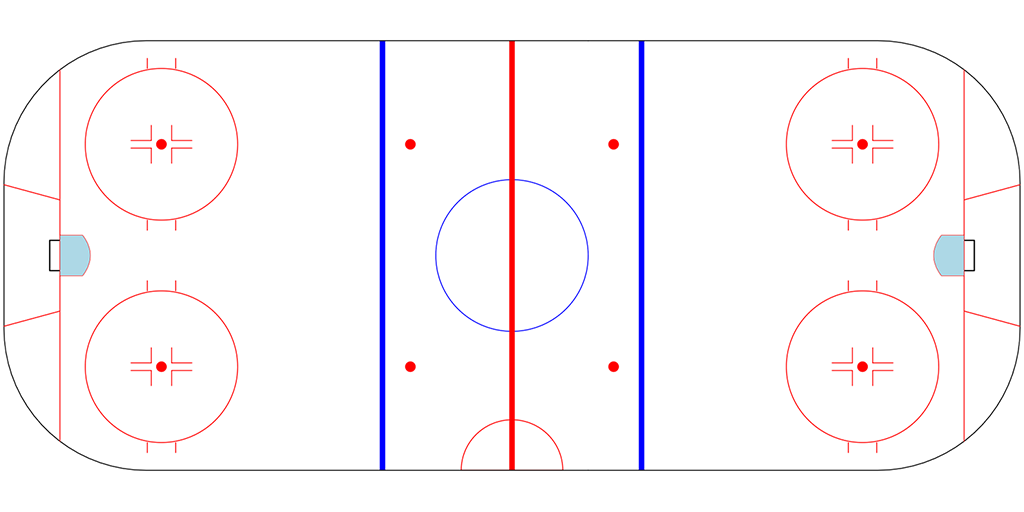
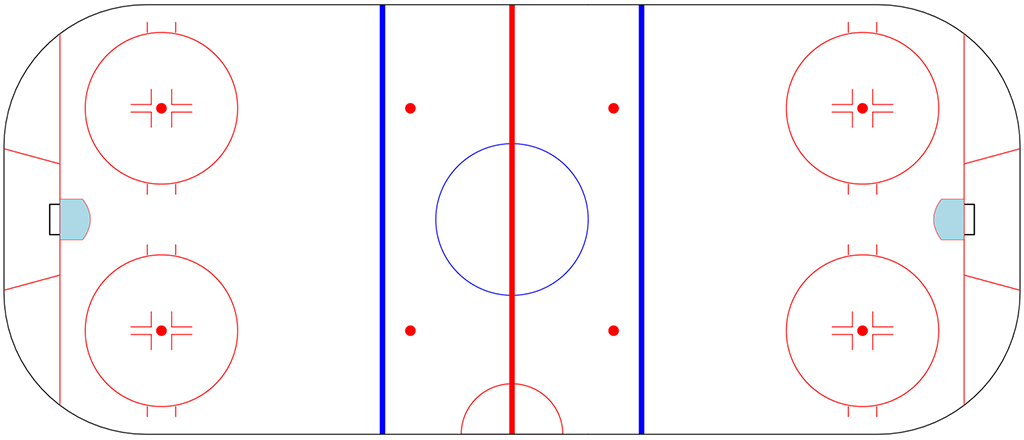
Added a bunch of error checking and shotmap cleanup. Should be last commit before pushing to Github and Docker.

diff --git a/hockey_bot_imaging.py b/hockey_bot_imaging.py
@@ -15,7 +15,7 @@ import pandas as pd
 import requests
 import seaborn as sns
 from bs4 import BeautifulSoup
-from PIL import Image, ImageDraw, ImageFont
+from PIL import Image, ImageDraw, ImageFont, ImageOps
 
 import nhl_game_events
 
@@ -61,7 +61,7 @@ def draw_centered_text(draw, coords, width, text, color, font):
     coords_new = (x_coords_new, y_coords)
 
     # Draw the text with the new coordinates
-    draw.text(coords_new, text, color, font)
+    draw.text(coords_new, text, color, font, align='center')
 
 # ------------------------------------------------------------------------------
 # ------------------------------------------------------------------------------
@@ -321,6 +321,7 @@ def image_generator_shotmap_old(game, all_plays):
 
     return bg
 
+
 def image_generator_shotmap(game, all_plays):
     """
     Takes a game & JSON object of game events and generates a shot map.
@@ -336,11 +337,6 @@ def image_generator_shotmap(game, all_plays):
     logging.info('Generating shotmap for both teams.')
 
     MAPPED_EVENTS = ('SHOT', 'MISSED_SHOT', 'GOAL')
-    IMG_HALF_WIDTH = 512
-    IMG_WIDTH = 1024
-    IMG_HEIGHT = 512
-    IMG_HALF_HEIGHT_RINK = 218
-    IMG_HALF_HEIGHT_ALL = 256
 
     pref_team_name = game.preferred_team.team_name
     pref_team_short = game.preferred_team.short_name
@@ -382,78 +378,119 @@ def image_generator_shotmap(game, all_plays):
         if event_type != "GOAL" and (abs(coords_x) > 100 or abs(coords_y) > 42.5):
             continue
 
+        # If the event is a goal, get the strength
+        strength = play['result']['strength']['code'] if event_type == 'GOAL' else 'N/A'
+
         event = {}
         event['id'] = id
         event['period'] = period
         event['event_type'] = event_type
+        event['strength'] = strength
         event['coords_x'] = coords_x
         event['coords_y'] = coords_y
 
         if team == pref_team_name:
             if event['coords_x'] < 0:
-                event['coords_x'] = abs(event['coords_x'])
+                event['coords_x'] = event['coords_x'] * -1
+                event['coords_y'] = event['coords_y'] * -1
             pref_events.append(event)
         else:
             if event['coords_x'] > 0:
                 event['coords_x'] = event['coords_x'] * -1
+                event['coords_y'] = event['coords_y'] * -1
             other_events.append(event)
 
     # Create lists for goals & shots (to scatter)
     pref_goals = list()
+    pref_ppg = list()
     pref_shots = list()
     other_goals = list()
+    other_ppg = list()
     other_shots = list()
 
     for event in pref_events:
-        if event['event_type'] == "GOAL":
+        # Add everything to the shots list
+        pref_shots.append(event)
+
+        # If event is a goal, also add it to the Goal List
+        if event['event_type'] == "GOAL" and event['strength'] == 'PPG':
+            pref_ppg.append(event)
+        elif event['event_type'] == "GOAL" and event['strength'] != 'PPG':
             pref_goals.append(event)
-        elif event['event_type'] == "SHOT":
-            pref_shots.append(event)
 
     for event in other_events:
-        if event['event_type'] == "GOAL":
+        # Add everything to the shots list
+        other_shots.append(event)
+
+        # If event is a goal, also add it to the Goal List
+        if event['event_type'] == "GOAL" and event['strength'] == 'PPG':
+            other_ppg.append(event)
+        elif event['event_type'] == "GOAL" and event['strength'] != 'PPG':
             other_goals.append(event)
-        elif event['event_type'] == "SHOT":
-            other_shots.append(event)
 
     # Convert lists to DataFrames (to scatter)
     pref_df = pd.DataFrame(pref_events)
     other_df = pd.DataFrame(other_events)
 
+    logging.debug(pref_df)
+    logging.debug(other_df)
+
     pref_goals_df = pd.DataFrame(pref_goals)
+    pref_ppg_df = pd.DataFrame(pref_ppg)
     pref_shots_df = pd.DataFrame(pref_shots)
 
     other_goals_df = pd.DataFrame(other_goals)
+    other_ppg_df = pd.DataFrame(other_ppg)
     other_shots_df = pd.DataFrame(other_shots)
 
     # Build Plot (via Matplotlib)
     MY_DPI = 96
-    fig = plt.figure(figsize=(IMG_WIDTH / MY_DPI, IMG_HEIGHT / MY_DPI), dpi=MY_DPI)
+    IMG_WIDTH = 1024
+    IMG_HEIGHT = 440
+    FIG_WIDTH = IMG_WIDTH / MY_DPI
+    FIG_HEIGHT = IMG_HEIGHT / MY_DPI
+    fig = plt.figure(figsize=(FIG_WIDTH, FIG_HEIGHT), dpi=MY_DPI)
     ax = fig.add_subplot(111)
+
+    ax_extent = [-100, 100, -42.5, 42.5]
     img = Image.open(os.path.join(PROJECT_ROOT, 'resources/images/Rink-Shotmap-Blank.png'))
-    ax.imshow(img, extent=[-100, 100, -50, 50])
+    ax.imshow(img, extent=ax_extent)
 
     # Draw the heatmap portion of the graph
     sns.set_style("white")
-    sns.kdeplot(pref_df.coords_x, pref_df.coords_y, cmap='Reds', shade=True, shade_lowest=False, alpha=0.6)
-    sns.kdeplot(other_df.coords_x, other_df.coords_y, cmap="Blues", shade=True, shade_lowest=False, alpha=0.6)
+    sns.kdeplot(pref_df.coords_x, pref_df.coords_y, cmap='Reds', shade=True, shade_lowest=False, alpha=0.6, ax=ax)
+    sns.kdeplot(other_df.coords_x, other_df.coords_y, cmap="Blues", shade=True, shade_lowest=False, alpha=0.6, ax=ax)
 
     # Draw the goal markers
-    ax.scatter(pref_goals_df.coords_x, pref_goals_df.coords_y, marker='*', s=30, c='#333333')
-    ax.scatter(other_goals_df.coords_x, other_goals_df.coords_y, marker='*', s=30, c='#333333')
+    if not pref_goals_df.empty:
+        ax.scatter(pref_goals_df.coords_x, pref_goals_df.coords_y, marker='*', s=30, c='#333333')
+    if not other_goals_df.empty:
+        ax.scatter(other_goals_df.coords_x, other_goals_df.coords_y, marker='*', s=30, c='#333333')
+
+    if not pref_ppg_df.empty:
+        ax.scatter(pref_ppg_df.coords_x, pref_ppg_df.coords_y, marker='^', s=30, c='#333333')
+    if not other_ppg_df.empty:
+        ax.scatter(other_ppg_df.coords_x, other_ppg_df.coords_y, marker='^', s=30, c='#333333')
 
     # Draw the shot markers (40% opacity)
     ax.scatter(pref_shots_df.coords_x, pref_shots_df.coords_y, marker='o', s=10, c='#333333', alpha=0.4)
     ax.scatter(other_shots_df.coords_x, other_shots_df.coords_y, marker='o', s=10, c='#333333', alpha=0.4)
 
+    # Set X / Y Limits
+    ax.set_xlim(-100, 100)
+    ax.set_ylim(-42, 42)
+
     # Hide all axes & bounding boxes
+    ax.collections[0].set_alpha(0)
     ax.axes.get_xaxis().set_visible(False)
     ax.axes.get_yaxis().set_visible(False)
     ax.set_frame_on(False)
     ax.axis('off')
 
     fig_filename = os.path.join(PROJECT_ROOT, 'resources/images/Rink-Shotmap-Generated.png')
-    fig.savefig(fig_filename, dpi=400, bbox_inches='tight', pad_inches=0)
+    # fig.savefig(fig_filename, dpi=400, bbox_inches='tight', pad_inches=0)
+    fig.savefig(fig_filename, dpi=400, bbox_inches='tight')
+
 
     # Add text to our Image (title, subtitles, etc)
     # Setup Fonts, Constants & Sizing
@@ -467,24 +504,35 @@ def image_generator_shotmap(game, all_plays):
     output_img = Image.open(fig_filename)
     w,h = output_img.size
 
-    cropped_img = output_img.crop((81, 0, w, h))
-    w,h = cropped_img.size
-
+    # Resize the Image (Width = 1024, Height = Ratio'd)
     resize_ratio = 1024 / w
     resize_wh = (int(w * resize_ratio), int(h * resize_ratio))
-    resized = cropped_img.resize(resize_wh, resample=Image.BILINEAR)
+    resized = output_img.resize(resize_wh, resample=Image.BILINEAR)
+    resized_w, resized_h = resized.size
+
+    # Set Padding & Re-Cropping Sizes
+    padding = 80
+    left_crop = 60
+    right_crop = resized_w + (padding * 2) - left_crop
+    bottom_crop = resized_h + (padding * 1.75)
+
+    resized = ImageOps.expand(resized, padding, (255, 255, 255)).crop((left_crop, 0, right_crop, bottom_crop))
+    resized_w, resized_h = resized.size
+    half_resized_w = resized_w / 2
 
     # Create the Draw Object & Place Text
     draw = ImageDraw.Draw(resized)
 
-    graph_title = f'{pref_team_name} vs. {other_team_name}'
+
+    graph_title = (f'{pref_team_name} vs. {other_team_name}'
+                   f'\nShotmap for All Situations')
     legend_text = 'o - Shot on Goal | * - Goal'
-    draw_centered_text(draw, (0,15), 1024, graph_title, (0, 0, 0), TITLE_FONT)
-    draw_centered_text(draw, (380, 513), 260, legend_text, (0,0,0), LEGEND_FONT)
+    draw_centered_text(draw, (0, 10), resized_w, graph_title, FONT_COLOR_BLACK, TITLE_FONT)
+    draw_centered_text(draw, (0, resized_h - 57), resized_w, legend_text, FONT_COLOR_BLACK, LEGEND_FONT)
 
     pref_subtitle = f'{pref_team_short} Shot Distribution'
     other_subtitle = f'{other_team_short} Shot Distribution'
-    draw_centered_text(draw, (0, 510), 512, other_subtitle, (0,0,0), SUBTITLE_FONT)
-    draw_centered_text(draw, (512, 510), 512, pref_subtitle, (0,0,0), SUBTITLE_FONT)
+    draw_centered_text(draw, (0, resized_h - 62), half_resized_w, other_subtitle, FONT_COLOR_BLACK, SUBTITLE_FONT)
+    draw_centered_text(draw, (half_resized_w, resized_h - 62), half_resized_w, pref_subtitle, FONT_COLOR_BLACK, SUBTITLE_FONT)
 
     return resized

diff --git a/hockey_twitter_bot.py b/hockey_twitter_bot.py
@@ -2223,9 +2223,10 @@ def loop_game_events(json_feed, game):
             if recent_event(play):
                 parse_missed_shot(play, game)
 
-        elif event_type == "STOP":
-            if recent_event(play):
-                check_tvtimeout(play, game)
+        # This code is not reliable enough - commenting out for now
+        # elif event_type == "STOP":
+        #     if recent_event(play):
+        #         check_tvtimeout(play, game)
 
         else:
             logging.debug("Other event: %s - %s", event_type, event_description)
@@ -2288,33 +2289,37 @@ def parse_end_of_game(json_feed, game):
 
 
     # Get next game on the schedule (bottom of the final tweet)
-    pref_team_id = game.preferred_team.team_id
-    next_game_url = f'{NHLAPI_BASEURL}/api/v1/teams/{pref_team_id}?expand=team.schedule.next'
-    logging.info(f"Going to get next game information via URL - {next_game_url}")
-    next_game_json = req_session.get(next_game_url).json()
-    next_game_sched = next_game_json.get('teams')[0].get('nextGameSchedule')
-    next_game = next_game_sched.get('dates')[0].get('games')[0]
+    try:
+        pref_team_id = game.preferred_team.team_id
+        next_game_url = f'{NHLAPI_BASEURL}/api/v1/teams/{pref_team_id}?expand=team.schedule.next'
+        logging.info(f"Going to get next game information via URL - {next_game_url}")
+        next_game_json = req_session.get(next_game_url).json()
+        next_game_sched = next_game_json.get('teams')[0].get('nextGameSchedule')
+        next_game = next_game_sched.get('dates')[0].get('games')[0]
 
-    # Commands used to calculate time related attributes
-    localtz = dateutil.tz.tzlocal()
-    localoffset = localtz.utcoffset(datetime.now(localtz))
-    next_game_date = next_game.get('gameDate')
-    next_game_datetime = datetime.strptime(next_game_date, '%Y-%m-%dT%H:%M:%SZ')
-    next_game_datetime_local = next_game_datetime + localoffset
-    next_game_date_string = datetime.strftime(next_game_datetime_local, '%A %B %d @ %I:%M%p')
+        # Commands used to calculate time related attributes
+        localtz = dateutil.tz.tzlocal()
+        localoffset = localtz.utcoffset(datetime.now(localtz))
+        next_game_date = next_game.get('gameDate')
+        next_game_datetime = datetime.strptime(next_game_date, '%Y-%m-%dT%H:%M:%SZ')
+        next_game_datetime_local = next_game_datetime + localoffset
+        next_game_date_string = datetime.strftime(next_game_datetime_local, '%A %B %d @ %I:%M%p')
 
-    # Get the Opponent for Next Game
-    next_game_teams = next_game.get('teams')
-    next_game_home = next_game_teams.get('home')
-    next_game_away = next_game_teams.get('away')
-    if next_game_home.get('team').get('id') == pref_team_id:
-        next_game_opponent = next_game_away.get('team').get('name')
-    else:
-        next_game_opponent = next_game_home.get('team').get('name')
+        # Get the Opponent for Next Game
+        next_game_teams = next_game.get('teams')
+        next_game_home = next_game_teams.get('home')
+        next_game_away = next_game_teams.get('away')
+        if next_game_home.get('team').get('id') == pref_team_id:
+            next_game_opponent = next_game_away.get('team').get('name')
+        else:
+            next_game_opponent = next_game_home.get('team').get('name')
 
-    next_game_venue = next_game.get('venue').get('name')
-    next_game_text = (f'Next Game: {next_game_date_string} vs. {next_game_opponent}'
-                      f' (at {next_game_venue})!')
+        next_game_venue = next_game.get('venue').get('name')
+        next_game_text = (f'Next Game: {next_game_date_string} vs. {next_game_opponent}'
+                        f' (at {next_game_venue})!')
+    except:
+        logging.warning('NHL API returned an incorrect response.')
+        next_game_text = ''
 
     # Generate Final Image
     # img = final_image(game, boxscore_preferred, boxscore_other)
@@ -2389,6 +2394,22 @@ def parse_end_of_game(json_feed, game):
     if game.finaltweets["opposition"] is False:
         try:
             nss_opposition, nss_opposition_byline = advanced_stats.nss_opposition(game, game.preferred_team)
+
+            # If both return values are False, it means the lines aren't confirmed
+            if nss_opposition is False and nss_opposition_byline is False:
+                tweet_text = (f'The bot could not programatically find the confirmed lines for tonight.'
+                              f'Due to this no advanced stats will be posted.'
+                              f'\n\n{preferred_hashtag} {game.game_hashtag}')
+                send_tweet(tweet_text)
+
+                # Skip the remainder of the functions by setting retries & tweet array values
+                # Then raise an Exception to skip the rest of the below
+                game.finaltweets["advstats"] = True
+                game.finaltweets["opposition"] = True
+                game.finaltweets_retry == 3
+                raise ValueError('Advanced stats cannot be performed with no lines!')
+
+            # If the above criteria is not met, the bot can do the rest of the advanced stats
             opposition_tweet_text = (f'{game.preferred_team.team_name} Primary Opposition\n'
                                     f'(via @NatStatTrick)')
             img = hockey_bot_imaging.image_generator_nss_opposition(nss_opposition_byline)
@@ -2406,8 +2427,8 @@ def parse_end_of_game(json_feed, game):
             game.finaltweets["opposition"] = True
         except Exception as e:
             logging.error(e)
-            if game.finaltweets_retry == 5:
-                logging.warning('Maximum of 5 retries exceeded - setting opposition to True.')
+            if game.finaltweets_retry == 3:
+                logging.warning('Maximum of 3 retries exceeded - setting opposition to True.')
                 game.finaltweets["opposition"] = True
 
 
@@ -2440,7 +2461,7 @@ def parse_end_of_game(json_feed, game):
             game.finaltweets["advstats"] = True
         except Exception as e:
             logging.error(e)
-            if game.finaltweets_retry == 5:
+            if game.finaltweets_retry == 3:
                 logging.warning('Maximum of 5 retries exceeded - setting advstats to True.')
                 game.finaltweets["advstats"] = True
 
@@ -2877,8 +2898,9 @@ if __name__ == '__main__':
                 logging.info("Sleeping for 5 seconds...")
                 time.sleep(5)
             except Exception as e:
-                logging.error("Uncaught exception in live game loop.")
+                logging.error("Uncaught exception in live game loop - still sleep for 5 seconds.")
                 logging.error(e)
+                time.sleep(5)
 
         elif game_obj.game_state == "Final":
             logging.info("Game is 'Final' - increase sleep time to 10 seconds.")

diff --git a/advanced_stats.py b/advanced_stats.py
@@ -251,6 +251,9 @@ def nss_opposition(game, team):
     if bool(team.lines) is False:
         logging.info('Somehow the lines dictionary is empty - rebuild it.')
         nhl_game_events.fantasy_lab_lines(game, team)
+    if team.lines is None:
+        logging.warning('Fantasy Labs lines are not confirmed - cannot perform advanced stats.')
+        return False, False
     lines = team.lines
 
     # Loop through each preferred player & their opposition
